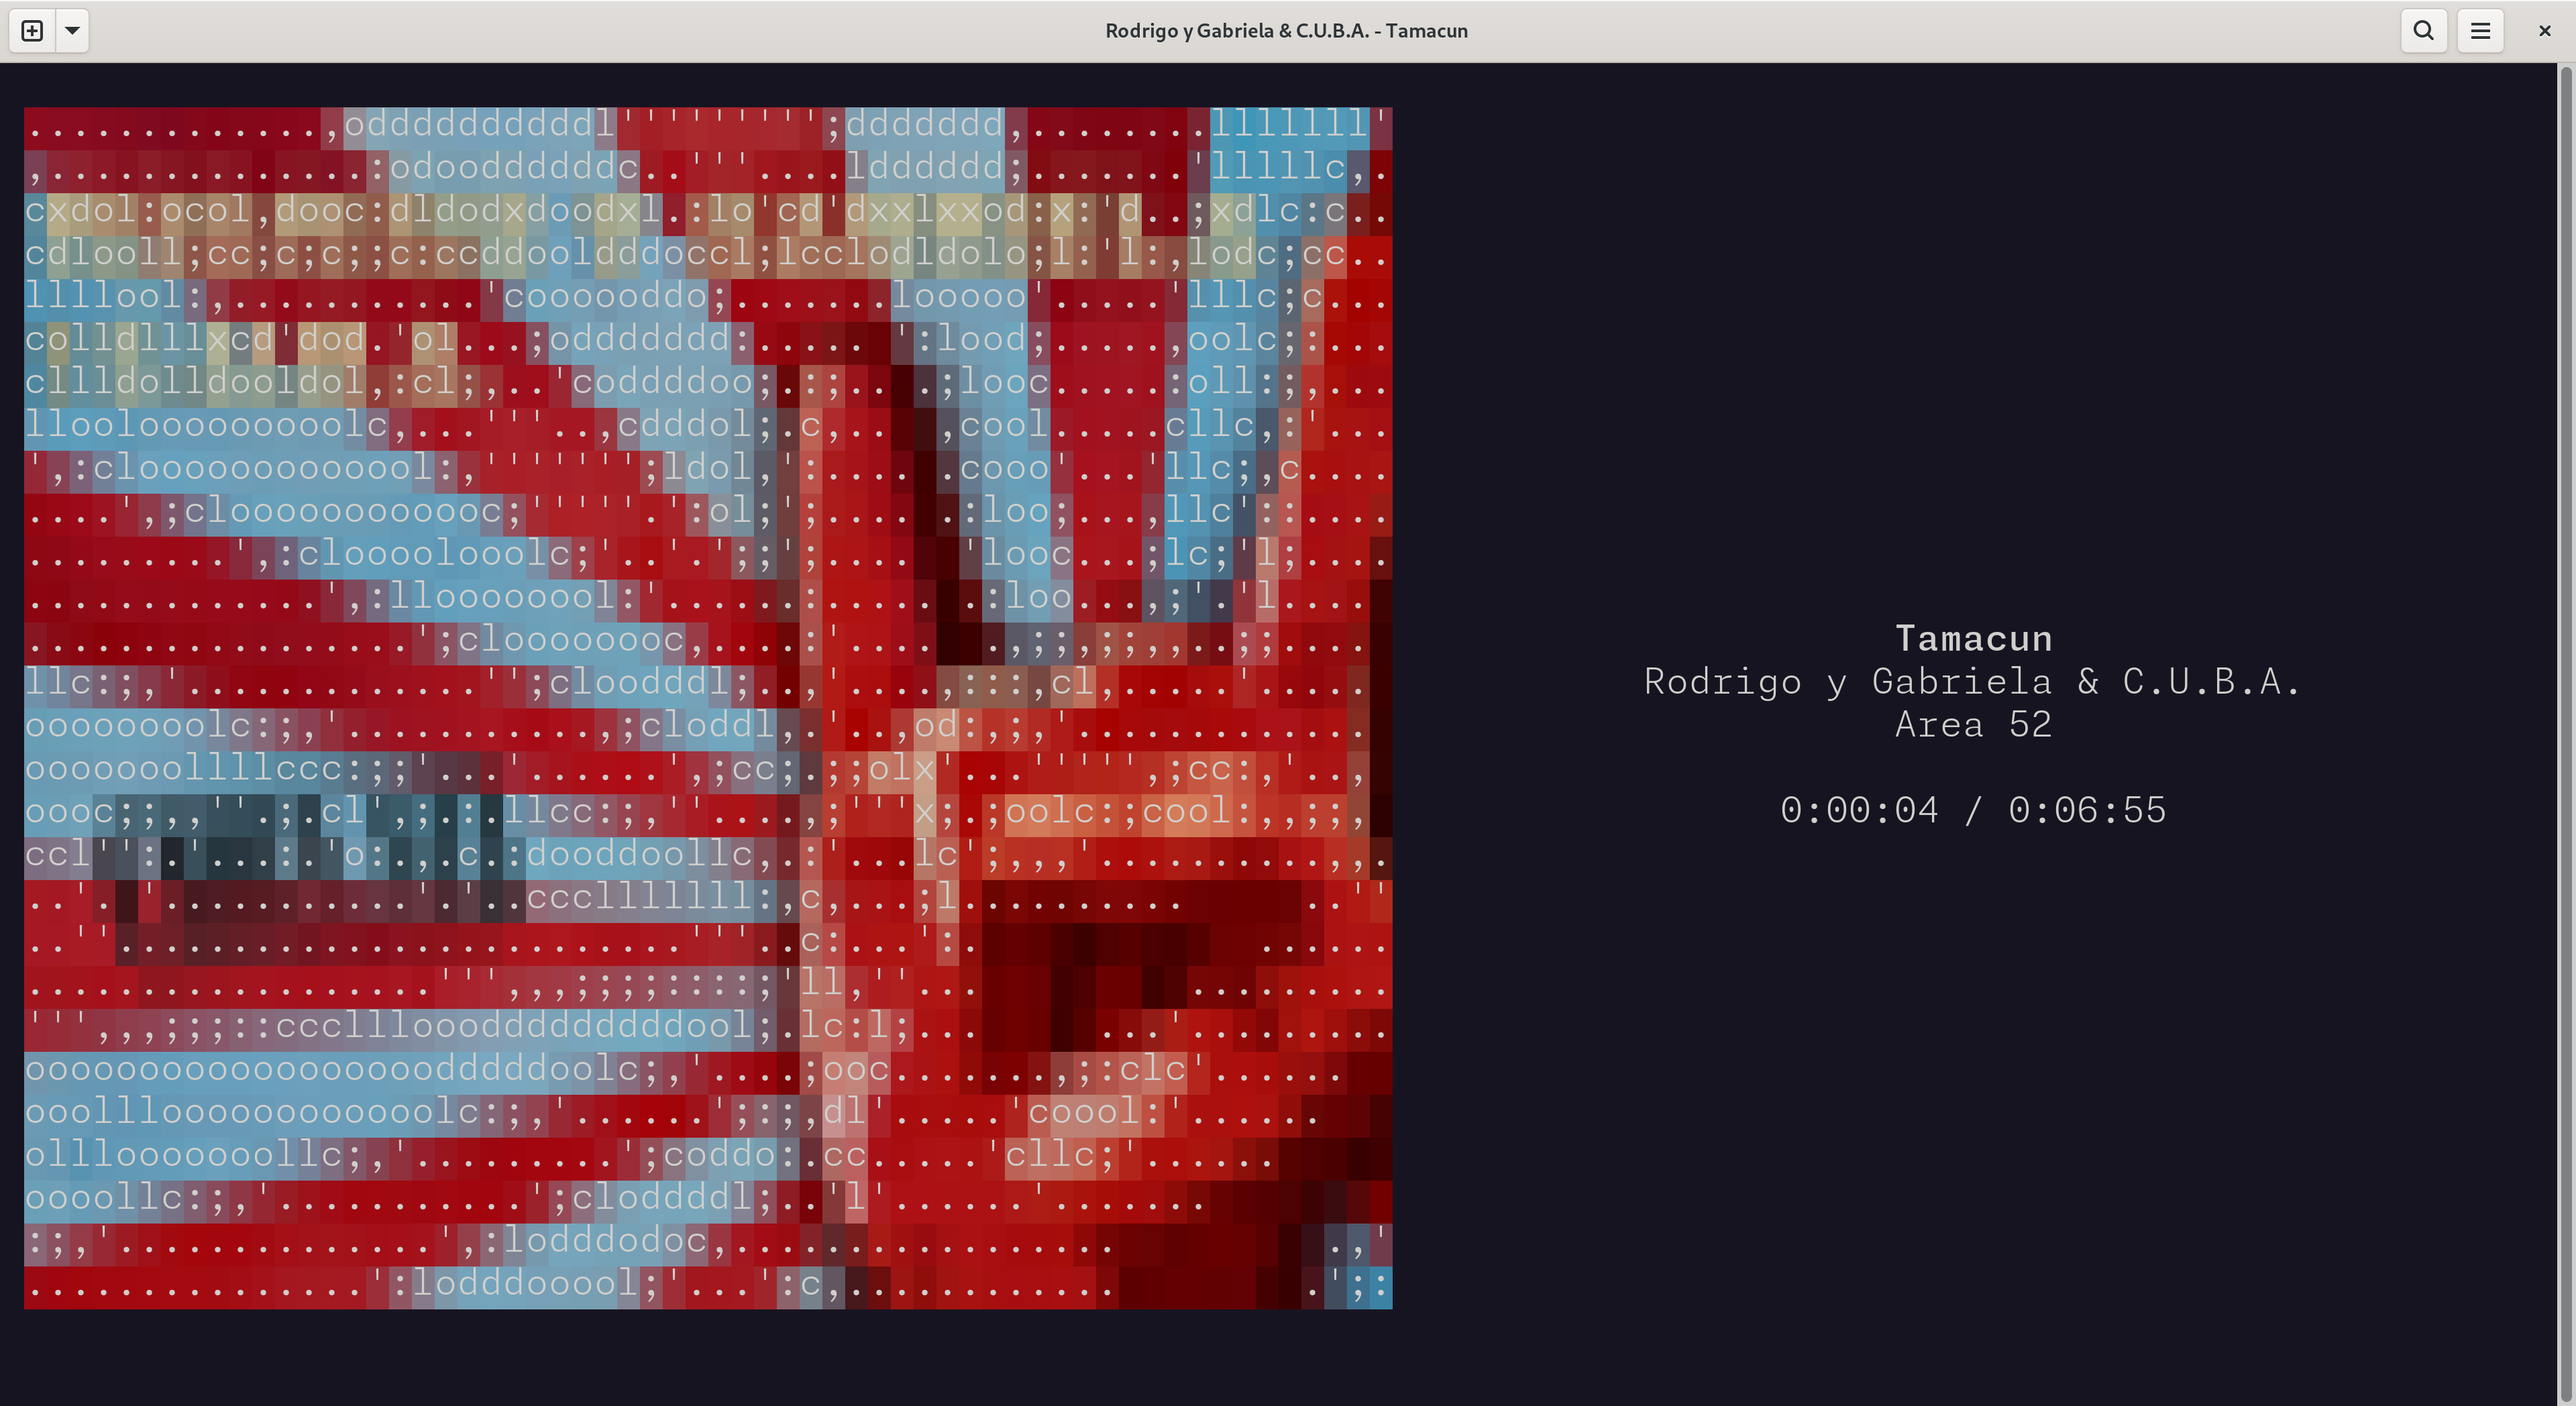
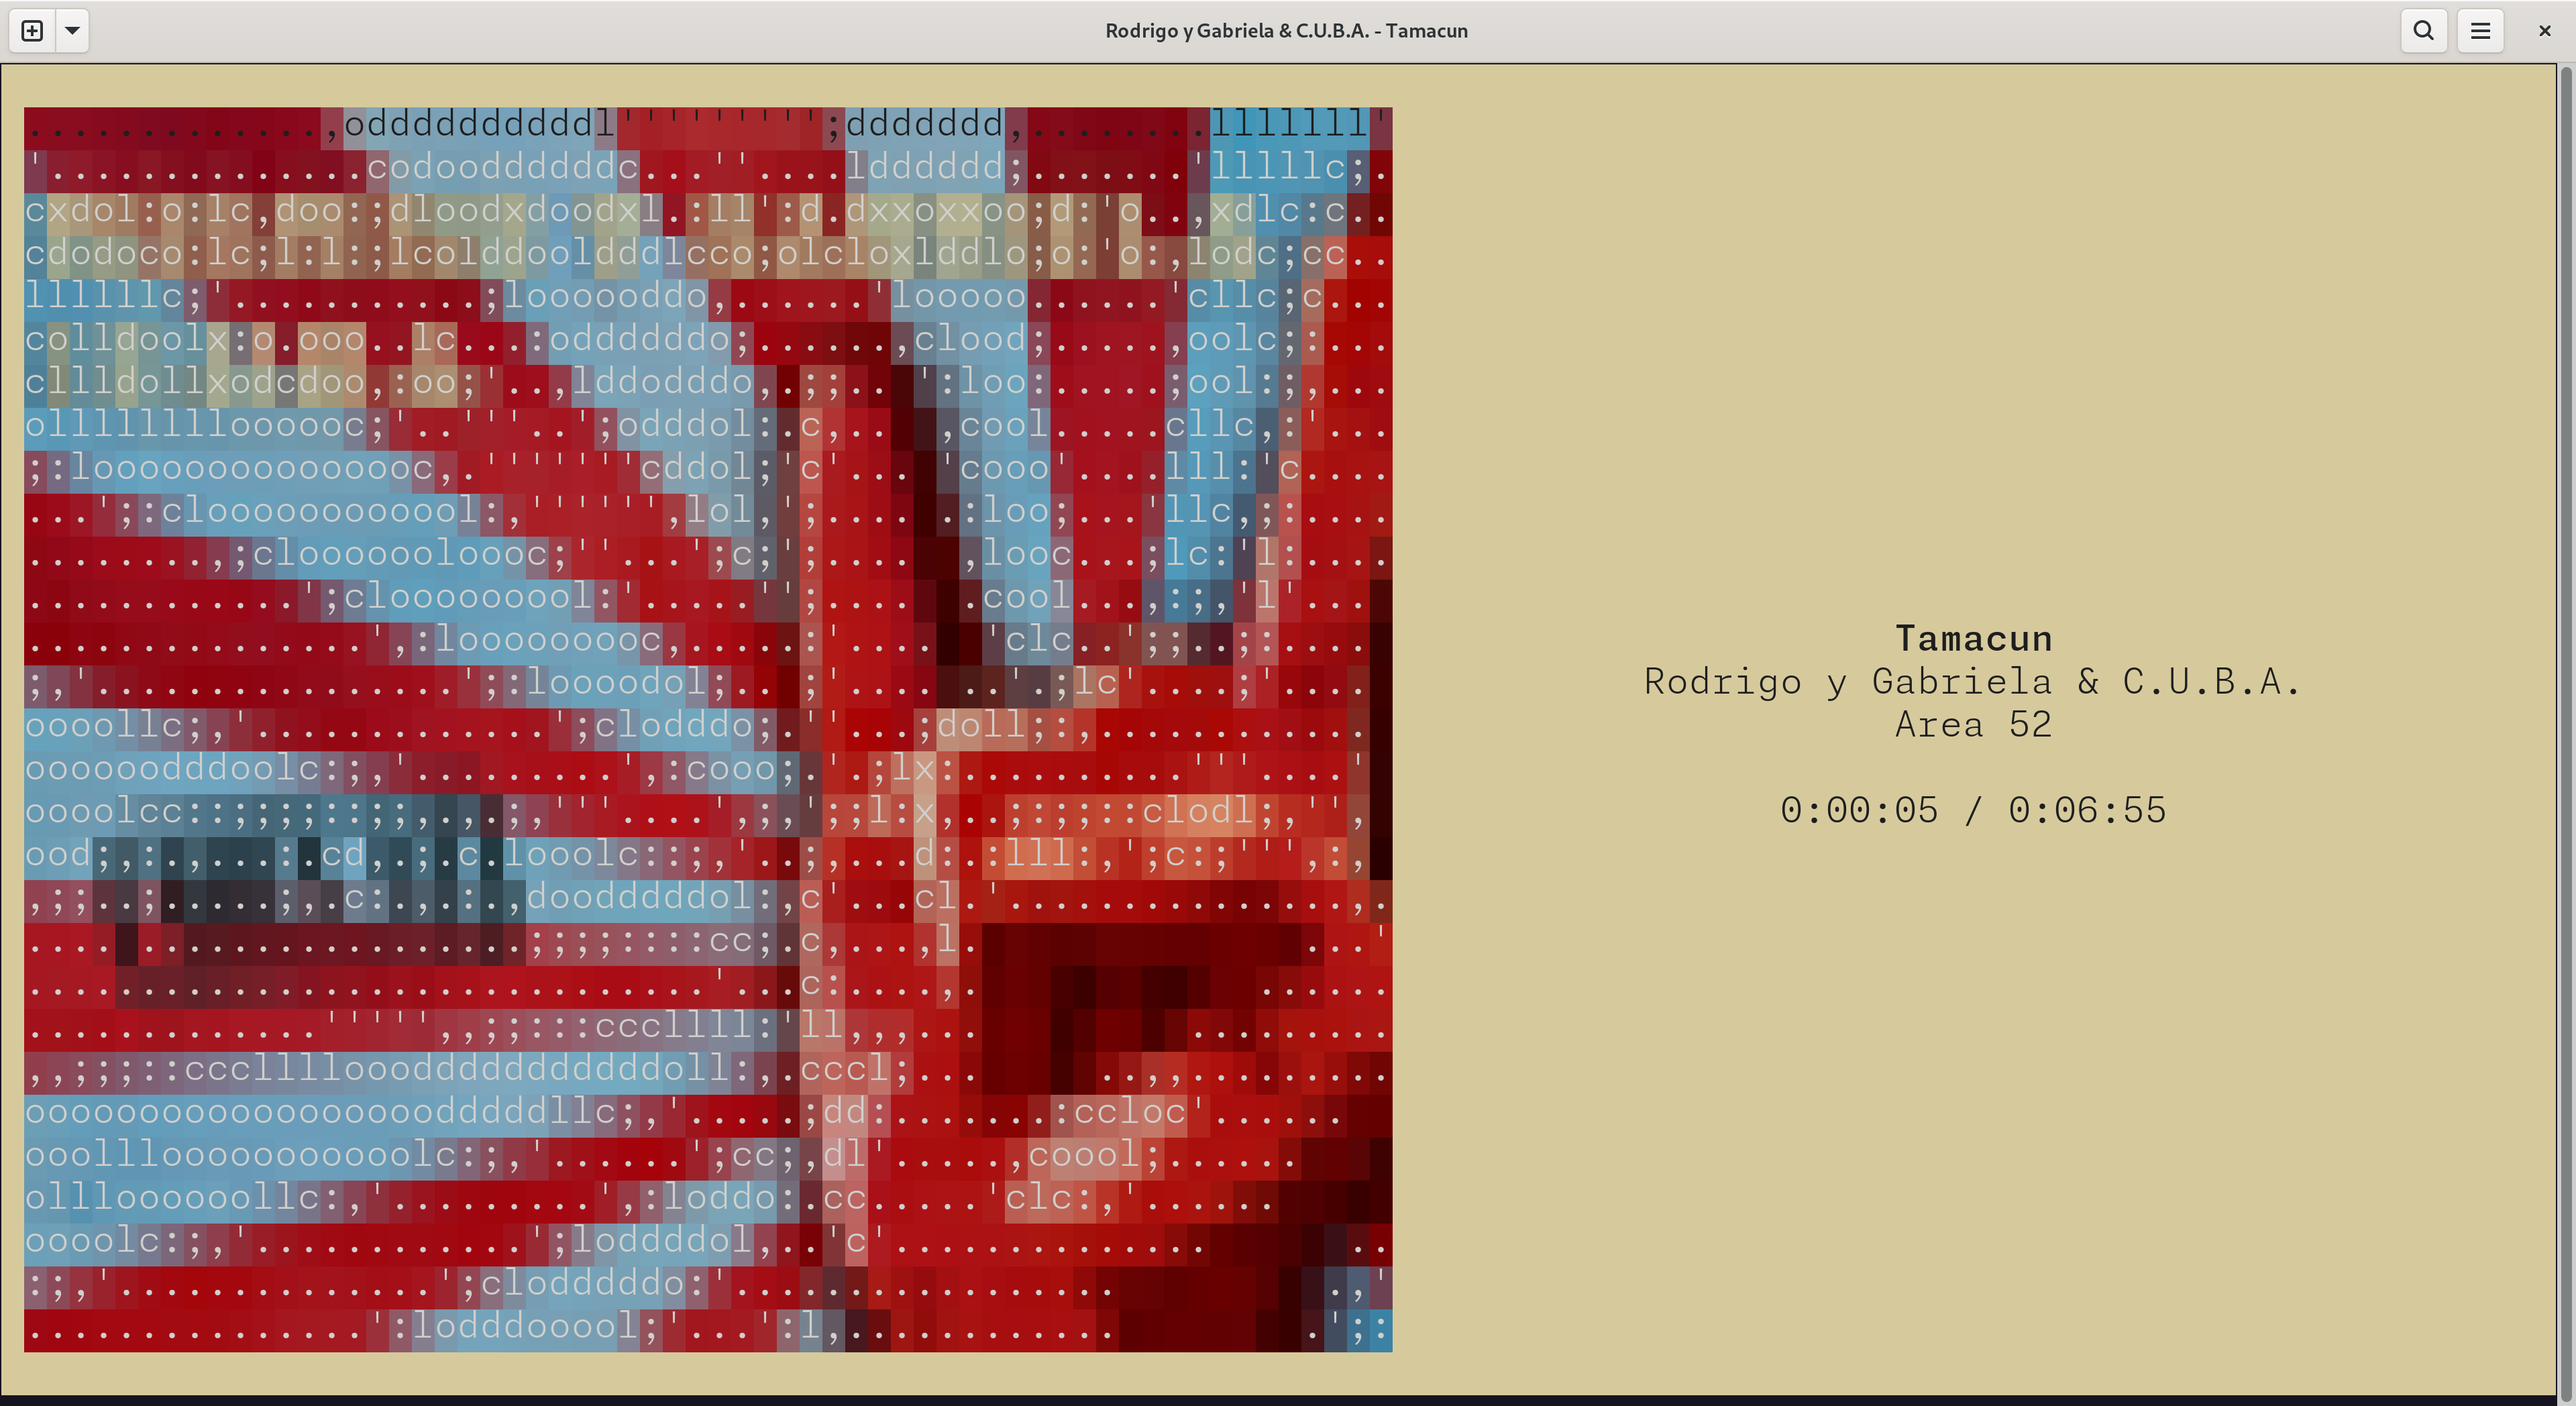
Add dynamic background color based on cover art (#32)
* Auto-set background color from the cover art

* Add setting for auto-background

* Auto-set fg color based on background color brightness

* Update screenshot and notes

diff --git a/tuatara/interface.py b/tuatara/interface.py
@@ -62,6 +62,17 @@ class Window:
 class Interface:
     def __init__(self):
         self.term = blessed.Terminal()
+        if self.term.number_of_colors != 1 << 24:
+            art = {}
+            if settings.art.get("visualization") != "none":
+                debug("Visualiazion unavailable due to non-truecolor terminal")
+                art["visualization"] = "none"
+            if settings.art.get("dynamic_background"):
+                debug(
+                    "Dynamic background color unavailable due to non-truecolor terminal"
+                )
+                art["dynamic_background"] = False
+            settings.merge_art(art)
         self.set_title(f"Tutatara {version}")
         self.help_canvas = self.populate_help()
         self.art_shown = None
@@ -71,6 +82,7 @@ class Interface:
         self.mainloop = None
         self.need_resize = True
         self.error = None
+        self.colorstr = ""
         signal.signal(signal.SIGWINCH, self.sigwinch_handler)
         signal.signal(signal.SIGINT, self.stop)
 
@@ -118,14 +130,20 @@ class Interface:
         self.text_box = text_box
         self.clear_display = True
 
+    def bold_with_bg(self, text):
+        text = self.term.bold(text) + self.colorstr
+        return text
+
     def display_info(self, player):
-        def display_ascii(image):
+        def display_ascii(image, clear=False):
             CHAR_RAMP = "   ...',;:clodxkO0KXNWM"
 
             if not image:
                 return
 
-            output = ""
+            output = self.colorstr
+            if clear:
+                output += self.term.clear
             img = image.resize((self.art_box.width, self.art_box.height))
 
             grayscale_img = img.convert("L")
@@ -154,6 +172,8 @@ class Interface:
                 self.text_box.left,
                 self.text_box.top + self.text_box.height // 2 + offset,
             )
+            output += self.colorstr
+            text += self.colorstr
             output += self.term.center(text, self.text_box.width)
             sys.stdout.write(output)
 
@@ -171,10 +191,11 @@ class Interface:
         if track != self.current_track:
             self.clear_display = True
             self.art_shown = False
+            self.colorstr = ""
         self.current_track = track
 
         if not track:
-            sys.stdout.write(self.term.clear)
+            sys.stdout.write(self.term.normal + self.term.clear)
             sys.stdout.flush()
             return True
 
@@ -183,7 +204,7 @@ class Interface:
 
         if self.clear_display:
             self.art_shown = False
-            sys.stdout.write(self.term.clear)
+            sys.stdout.write(self.term.normal + self.term.clear)
             self.clear_display = False
 
         if track.title:
@@ -193,7 +214,7 @@ class Interface:
             parsed_url = parse_url(track.url)
             titlestr = os.path.basename(parsed_url.path)
             windowtitle = titlestr
-        display_str(self.term.bold(titlestr), -2)
+        display_str(self.bold_with_bg(titlestr), -2)
         self.set_title(windowtitle)
 
         if track.artist:
@@ -207,10 +228,18 @@ class Interface:
         if not track.cover_art and track.fetch_status == "not_started":
             track.find_cover_art()
         if self.vis_shown:
+            self.colorstr = ""
             display_ascii(player.get_vis_frame())
         else:
             if not self.art_shown and track.cover_art:
-                display_ascii(track.cover_art.get_image())
+                img = track.cover_art.get_image()
+                if track.cover_art.bg_color:
+                    (r, g, b) = track.cover_art.bg_color
+                    self.colorstr = self.term.on_color_rgb(r, g, b)
+                if track.cover_art.fg_color:
+                    (r, g, b) = track.cover_art.fg_color
+                    self.colorstr += self.term.color_rgb(r, g, b)
+                display_ascii(img, clear=True)
                 self.art_shown = True
 
         if self.help_shown:
@@ -242,11 +271,14 @@ class Interface:
 
         helptext = []
 
-        helptext.append("┌" + "─" * (help_width + 2) + "┐")
+        helptext.append(self.term.normal + "┌" + "─" * (help_width + 2) + "┐")
         helptext.append(help_entry(""))
         helptext.append(
             help_entry(
-                self.term.center(self.term.bold(f"Tuatara {version}"), help_width)
+                self.term.center(
+                    self.term.bold(f"Tuatara {version}"),
+                    help_width,
+                )
             )
         )
         helptext.append(help_entry(""))
@@ -267,9 +299,6 @@ class Interface:
         sys.stdout.write(output)
 
     def toggle_vis(self):
-        if not self.vis_shown and self.term.number_of_colors != 1 << 24:
-            debug("Visualiazion not available when not on a truecolor terminal")
-            return
         self.vis_shown = not self.vis_shown
         self.clear_display = True
 

diff --git a/tuatara/cover_art.py b/tuatara/cover_art.py
@@ -5,12 +5,20 @@
 # SPDX-License-Identifier: GPL-3.0+
 #
 
-from tuatara.image_utils import image_from_file, image_from_buffer
+from tuatara.image_utils import (
+    image_from_file,
+    image_from_buffer,
+    dominant_color,
+    foreground_for,
+)
+from tuatara.settings import settings
 
 
 class CoverArt:
     def __init__(self):
         self.imgdata = None
+        self.bg_color = None
+        self.fg_color = None
         pass
 
     def get_image(self):
@@ -31,6 +39,9 @@ class FileCoverArt(CoverArt):
 
     def get_image(self):
         self.imgdata = image_from_file(self.path)
+        if settings.art.get("dynamic_background"):
+            self.bg_color = dominant_color(self.imgdata)
+            self.fg_color = foreground_for(self.bg_color)
         return self.imgdata
 
 
@@ -44,6 +55,9 @@ class InlineCoverArt(CoverArt):
 
     def set_from_buffer(self, buffer):
         self.imgdata = image_from_buffer(buffer)
+        if settings.art.get("dynamic_background"):
+            self.bg_color = dominant_color(self.imgdata)
+            self.fg_color = foreground_for(self.bg_color)
 
     def get_image(self):
         return self.imgdata

diff --git a/tuatara/image_utils.py b/tuatara/image_utils.py
@@ -53,3 +53,30 @@ def image_from_pixbuf(pixbuf):
         mode = "RGBA"
     img = Image.frombytes(mode, (pixbuf.props.width, pixbuf.props.height), data, "raw")
     return img
+
+
+def dominant_color(img):
+    # Reasonably fast colorthief using just Pillow
+    #
+    # Quantize the image, throw out "mostly white", pick the most used
+    quantimg = img.quantize().convert("RGB")
+    colors = quantimg.getcolors()
+    colors = list(filter(lambda x: sum(x[1][0:3]) < 700, colors))
+    colors.sort(reverse=True)
+    color = None
+    for i in range(len(colors)):
+        # Avoid black unless it's really dominant
+        if sum(colors[i][1][0:3]) > 100 or colors[i][0] / colors[i + 1][0] > 20:
+            color = colors[i][1]
+            break
+    if not color:
+        color = (0, 0, 0)
+    return color
+
+
+def foreground_for(color):
+    g_img = Image.new("RGBA", (1, 1), color).convert("L")
+    if g_img.getpixel((0, 0)) > 127:
+        return (30, 30, 30)
+    else:
+        return (225, 225, 225)

diff --git a/tuatara/settings.py b/tuatara/settings.py
@@ -21,6 +21,7 @@ class Settings:
             "debugfile": f"tuatara-{datetime.now().isoformat()}.log",
             "art": {
                 "fetchers": ["apple", "musicbrainz"],
+                "dynamic_background": True,
                 "font_ratio": 2.0,
                 "brightness_adj": 0.75,
                 "contrast_adj": 1.25,
@@ -39,6 +40,13 @@ class Settings:
                         continue
                     sys.stderr.write(
                         "Error: 'fetchers' must be a list of fetchers. Set to [] to disable fetching\n"
+                    )
+                    errors += 1
+                case "dynamic_background":
+                    if isinstance(datum, bool):
+                        continue
+                    sys.stderr.write(
+                        "Error: 'dynamic_background' must be true or false\n"
                     )
                     errors += 1
                 case "font_ratio":

diff --git a/tests/test_settings.py b/tests/test_settings.py
@@ -45,6 +45,7 @@ def test_validation(capsys):
 
     bad_data = {
         "fetchers": 3,
+        "dynamic_background": "yo",
         "font_ratio": -1,
         "brightness_adj": 10,
         "contrast_adj": True,
@@ -52,6 +53,7 @@ def test_validation(capsys):
     }
     error_msgs = (
         "Error: 'fetchers' must be a list of fetchers. Set to [] to disable fetching\n",
+        "Error: 'dynamic_background' must be true or false\n",
         "Error: 'font_ratio' must be a positive number\n",
         "Error: 'brightness_adj' must be between 0 and 2\n",
         "Error: 'contrast_adj' must be between 0 and 2\n",

diff --git a/NOTES.md b/NOTES.md
@@ -3,7 +3,6 @@ Notes on future work
 
 # Possible items
 - Subsonic/navidrome/plex streaming support
-- Automatic background color setting
 - Actually testing non-Linux platforms
 
 # Unlikely items
